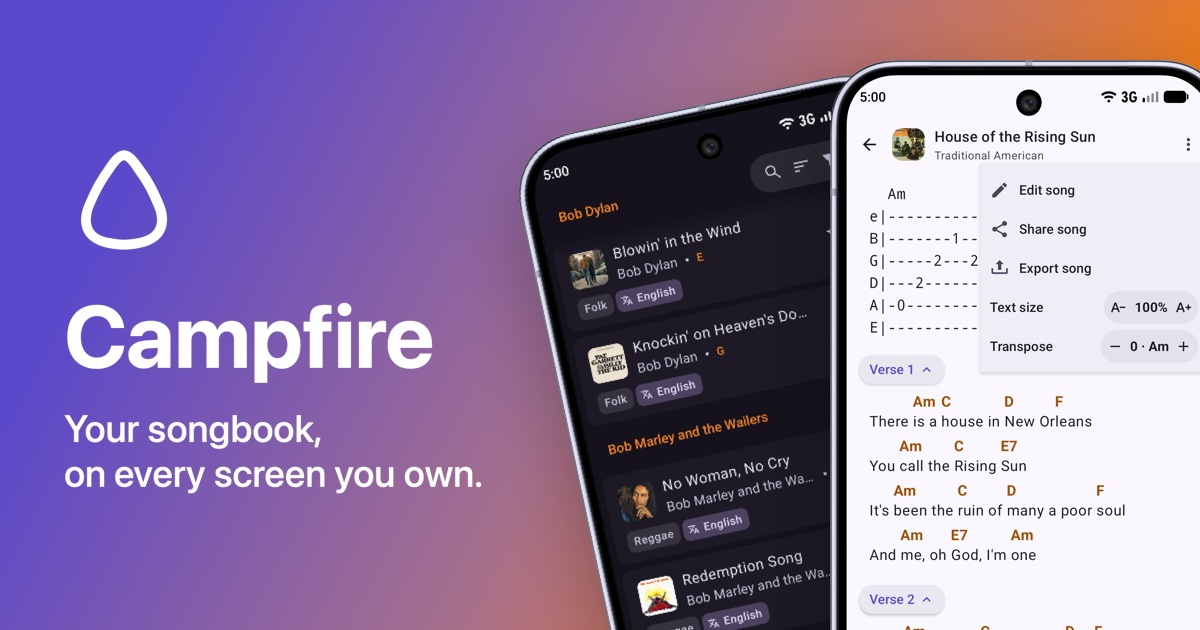
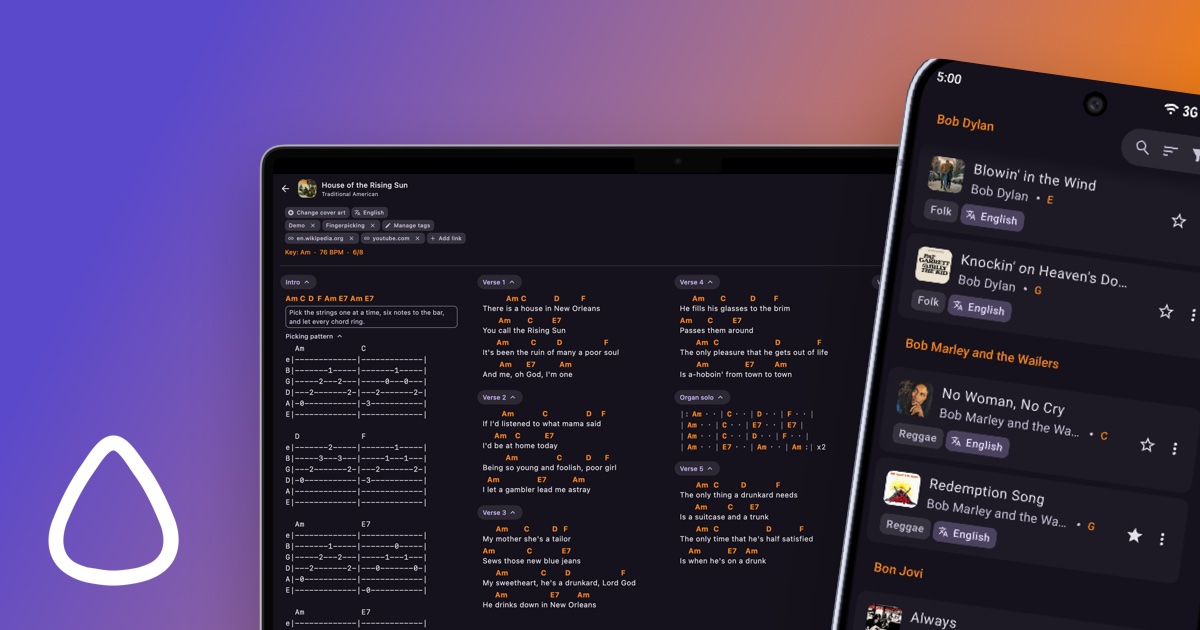
Update the link preview image and shorten the home page descriptions.

diff --git a/index.html b/index.html
@@ -4,18 +4,18 @@
 	<meta charset="utf-8">
 	<meta name="viewport" content="width=device-width, initial-scale=1">
 	<title>Campfire – Your songbook, on every screen you own</title>
-	<meta name="description" content="Campfire is a free, open-source songbook app for lyrics and chords that lays every song out to fit your screen. Android, iOS, iPadOS, Windows, macOS, Linux and the web. No ads, no tracking, no account.">
+	<meta name="description" content="Free, open-source songbook for lyrics and chords that fits every song to your screen. Android, iOS, Windows, macOS, Linux and the web. No ads, no tracking.">
 	<meta name="theme-color" content="#FAF8FE" media="(prefers-color-scheme: light)">
 	<meta name="theme-color" content="#15121C" media="(prefers-color-scheme: dark)">
 	<meta property="og:type" content="website">
 	<meta property="og:site_name" content="Campfire">
 	<meta property="og:url" content="https://campfire-songbook.com/">
 	<meta property="og:title" content="Campfire">
-	<meta property="og:description" content="Your songbook, on every screen you own.">
-	<meta property="og:image" content="https://campfire-songbook.com/assets/og-image.jpg">
+	<meta property="og:description" content="A free songbook for lyrics and chords that fits every song to your screen, on your phone, tablet, computer or the web.">
+	<meta property="og:image" content="https://campfire-songbook.com/assets/og-image.jpg?v=2">
 	<meta property="og:image:width" content="1200">
 	<meta property="og:image:height" content="630">
-	<meta property="og:image:alt" content="Campfire running on two phones">
+	<meta property="og:image:alt" content="Campfire running on a laptop and a phone">
 	<meta name="twitter:card" content="summary_large_image">
 	<link rel="icon" href="assets/icon.svg" type="image/svg+xml">
 	<link rel="apple-touch-icon" href="assets/icon-192.png">

diff --git a/privacy/index.html b/privacy/index.html
@@ -12,10 +12,10 @@
 	<meta property="og:url" content="https://campfire-songbook.com/privacy/">
 	<meta property="og:title" content="Privacy policy – Campfire">
 	<meta property="og:description" content="How Campfire handles your data: no account, no server, no ads or tracking.">
-	<meta property="og:image" content="https://campfire-songbook.com/assets/og-image.jpg">
+	<meta property="og:image" content="https://campfire-songbook.com/assets/og-image.jpg?v=2">
 	<meta property="og:image:width" content="1200">
 	<meta property="og:image:height" content="630">
-	<meta property="og:image:alt" content="Campfire running on two phones">
+	<meta property="og:image:alt" content="Campfire running on a laptop and a phone">
 	<meta name="twitter:card" content="summary_large_image">
 	<link rel="icon" href="../assets/icon.svg" type="image/svg+xml">
 	<link rel="apple-touch-icon" href="../assets/icon-192.png">

diff --git a/support/index.html b/support/index.html
@@ -12,10 +12,10 @@
 	<meta property="og:url" content="https://campfire-songbook.com/support/">
 	<meta property="og:title" content="Support – Campfire">
 	<meta property="og:description" content="Answers to common questions about Campfire, and how to get in touch.">
-	<meta property="og:image" content="https://campfire-songbook.com/assets/og-image.jpg">
+	<meta property="og:image" content="https://campfire-songbook.com/assets/og-image.jpg?v=2">
 	<meta property="og:image:width" content="1200">
 	<meta property="og:image:height" content="630">
-	<meta property="og:image:alt" content="Campfire running on two phones">
+	<meta property="og:image:alt" content="Campfire running on a laptop and a phone">
 	<meta name="twitter:card" content="summary_large_image">
 	<link rel="icon" href="../assets/icon.svg" type="image/svg+xml">
 	<link rel="apple-touch-icon" href="../assets/icon-192.png">
